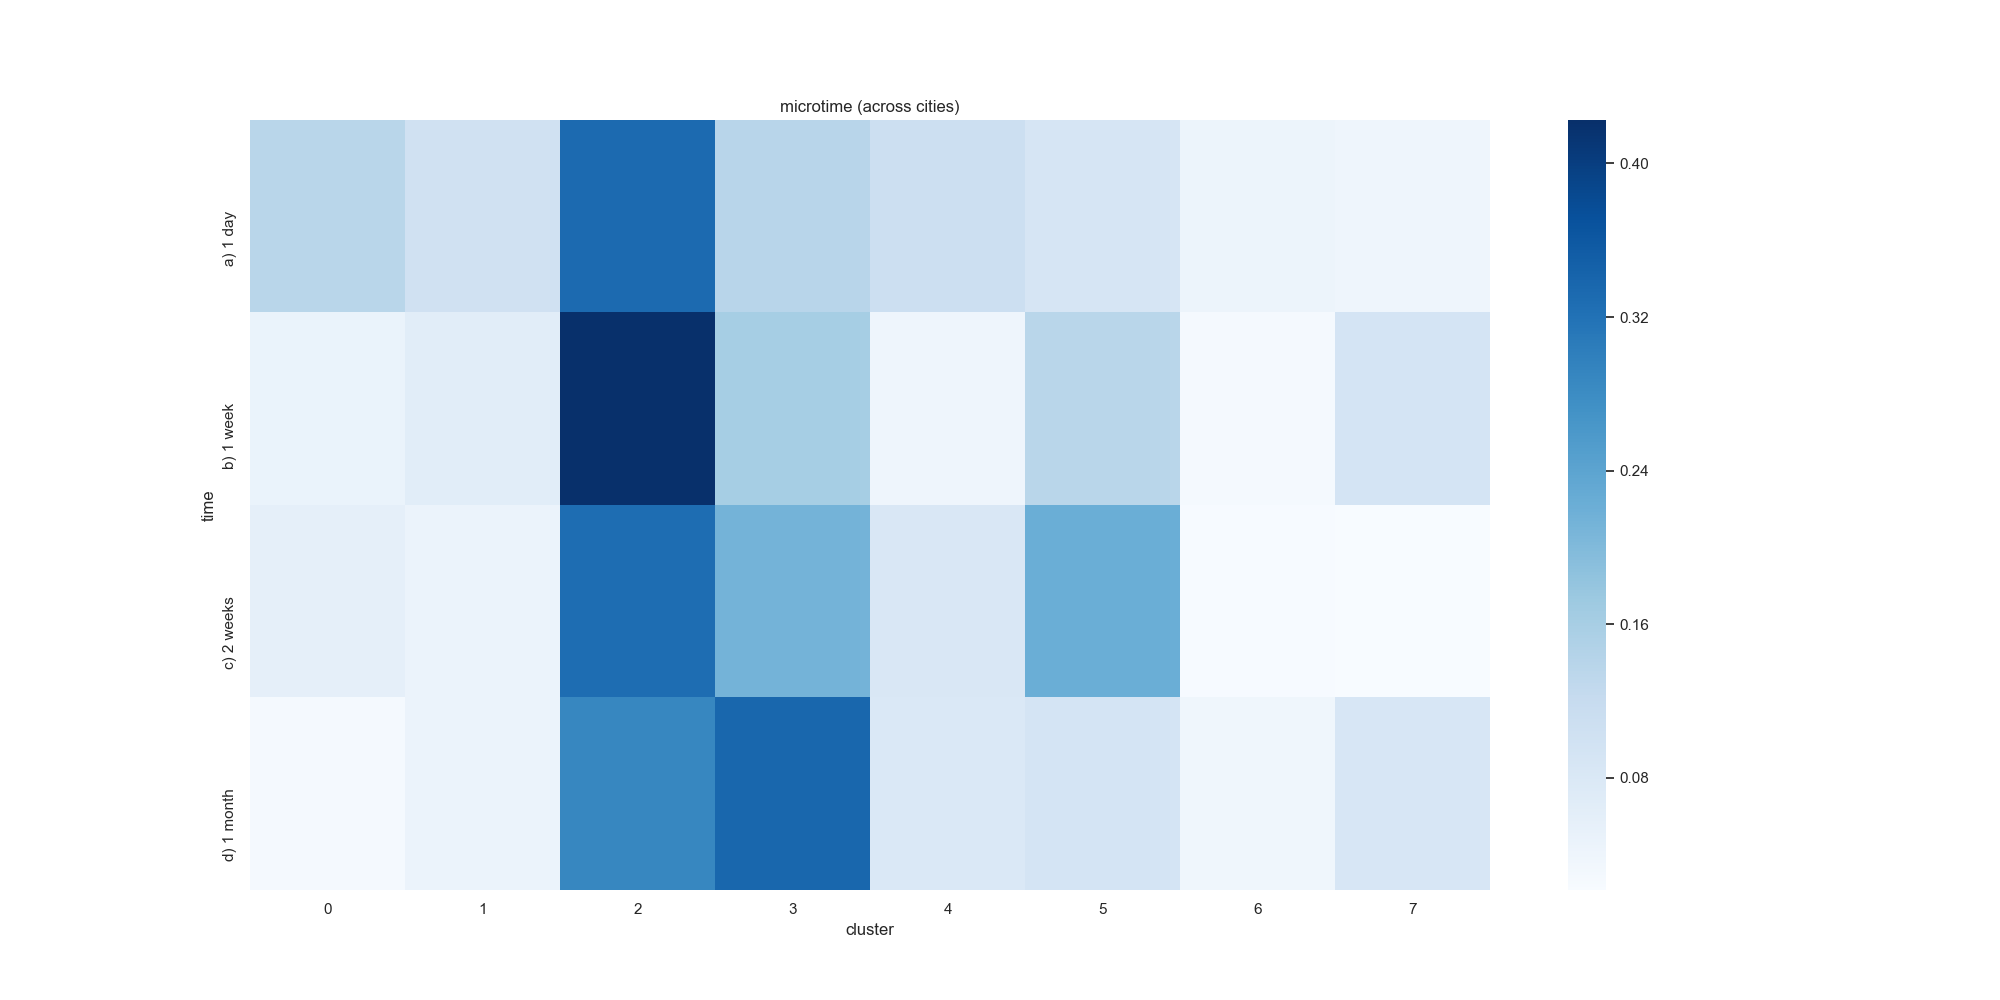
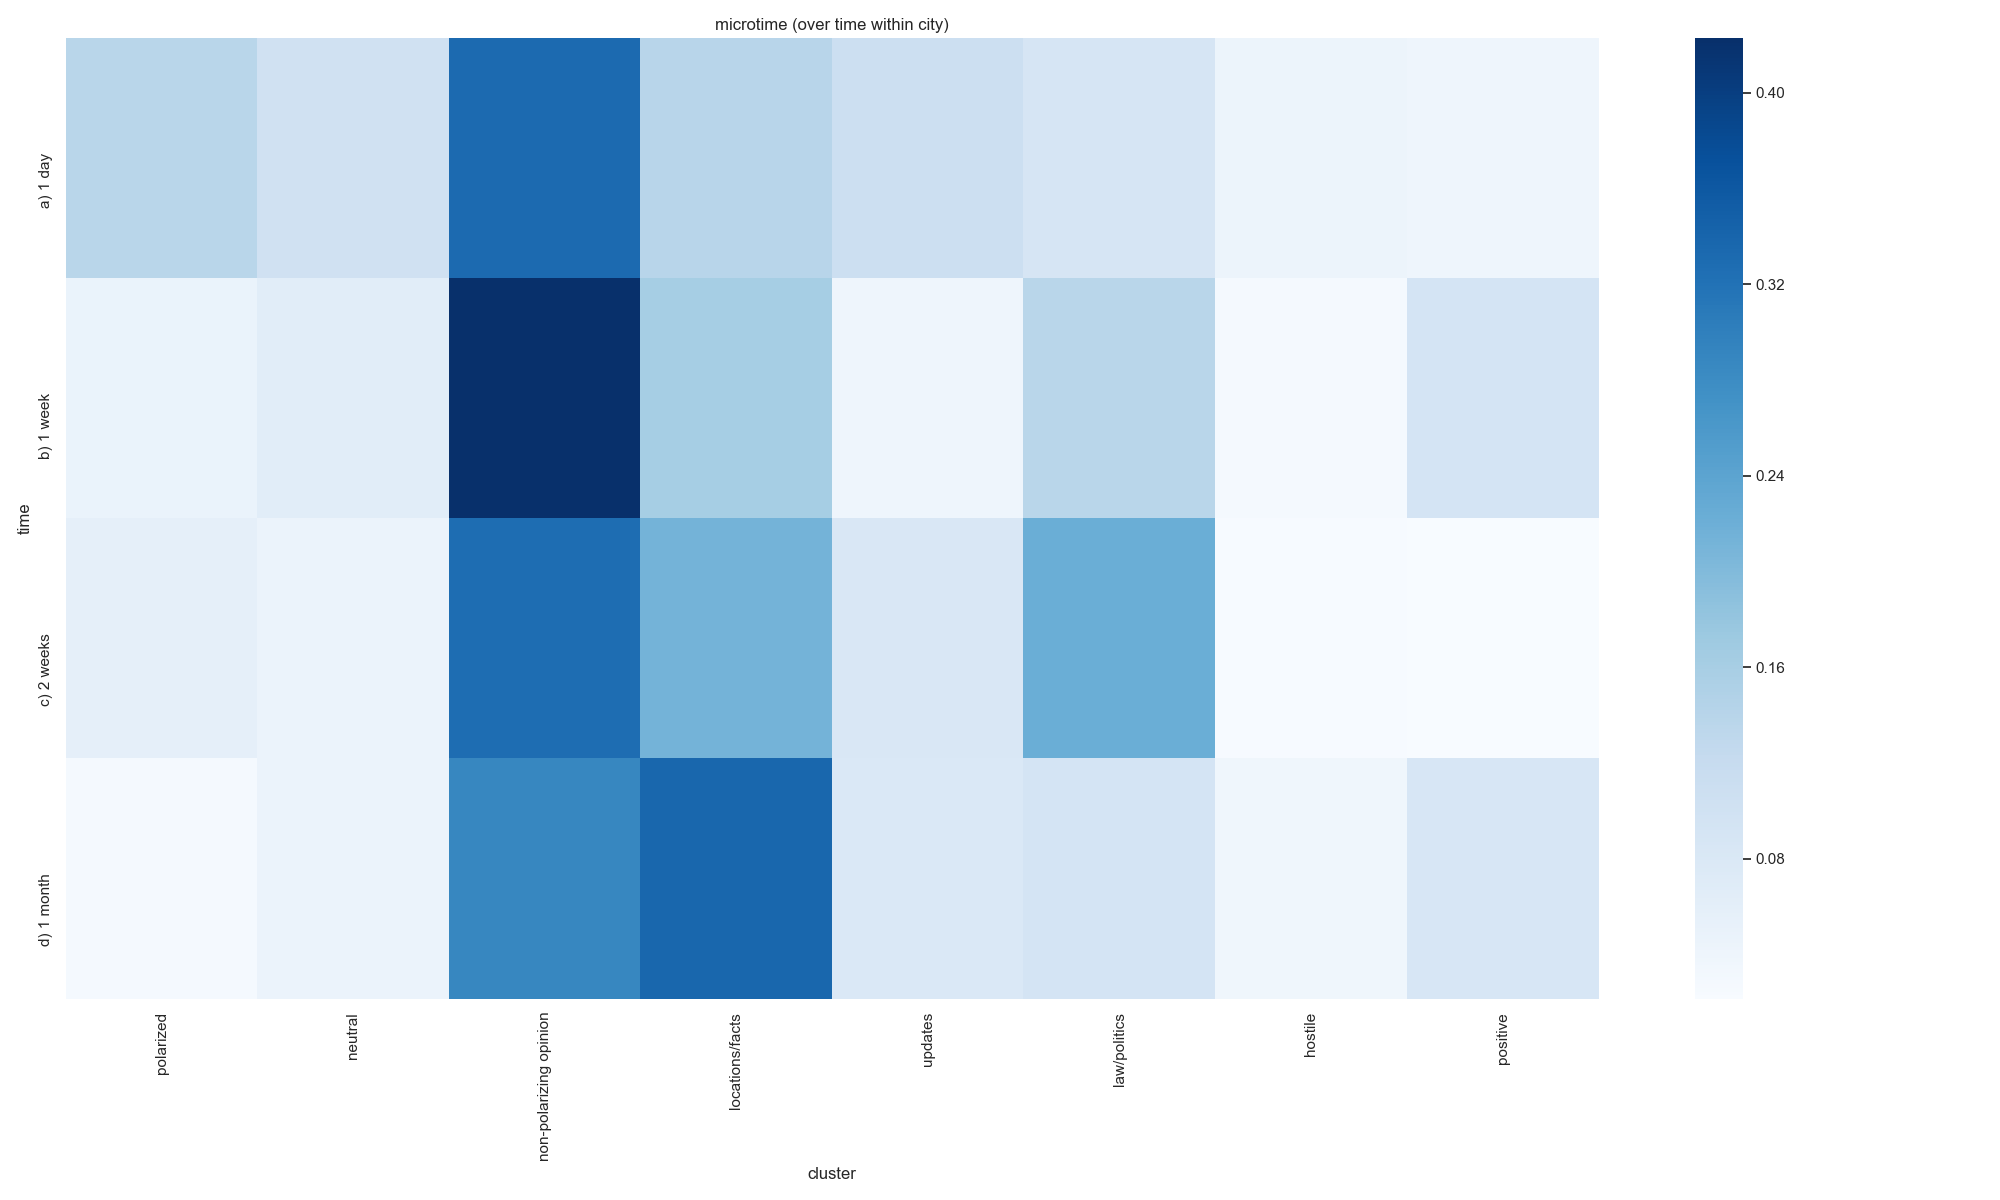
Adds fixed pictures

diff --git a/microtime.py b/microtime.py
@@ -68,11 +68,15 @@ for comment_path, ref in zip(paths, refs):
         index='time', columns='cluster', 
         values='count', aggfunc=sum)
     chi2, p, dof, expected = chi2_contingency(df.values)
-    fig, ax = plt.subplots(figsize=(20, 10))
+    fig, ax = plt.subplots(figsize=(20, 12))
     for i in range(df.values.shape[0]):
         df.values[i] = df.values[i] / df.values[i].sum()
-    sns.heatmap(df, ax=ax, cmap='Blues')
-    plt.title(f'microtime (across cities)')
+    xticks = ['polarized', 'neutral', 'non-polarizing opinion', 
+        'locations/facts', 'updates', 'law/politics', 'hostile', 'positive']
+    sns.heatmap(df, ax=ax, cmap='Blues', xticklabels=xticks)
+    plt.xticks(rotation='vertical')
+    plt.title(f'microtime (over time within city)')
+    plt.tight_layout()
     plt.savefig(f'microtime/{save_path}')
     with open(f'microtime/pval.txt', 'a') as f:
         f.write(f'{save_path} p-value: {p}\n')
